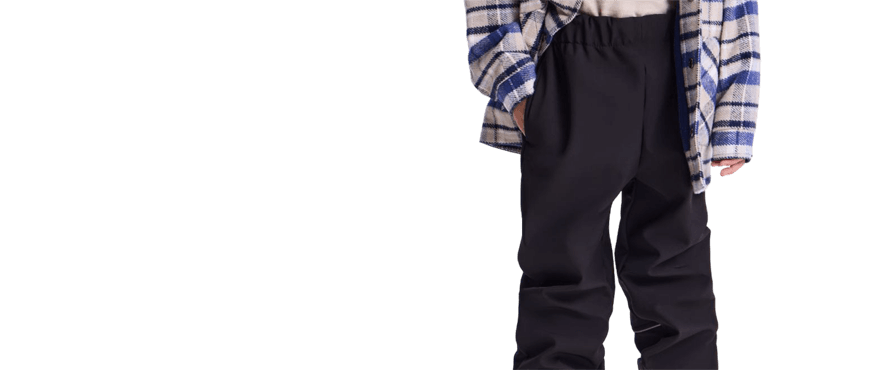
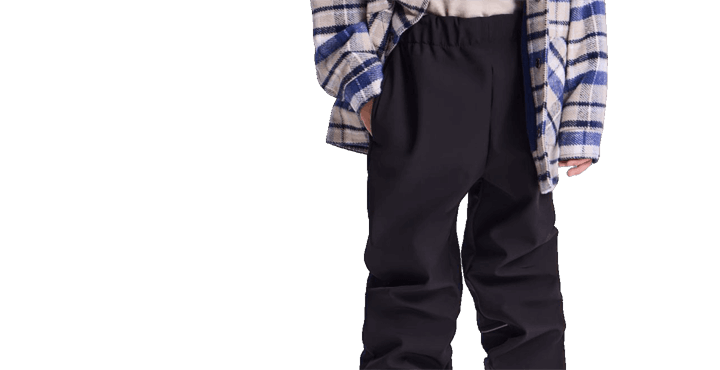
refactor: change images

Changed region(s): [[0.4278, 0.0, 0.8861, 1.0]]

diff --git a/styles/styles.css b/styles/styles.css
@@ -231,6 +231,11 @@ body {
   max-width: 100%;
 }
 
+.categories__card:nth-of-type(7) img {
+  object-fit: cover;
+  min-height: 100%;
+}
+
 /*-------------------------------------block------------------------------------*/
 
 .block {
